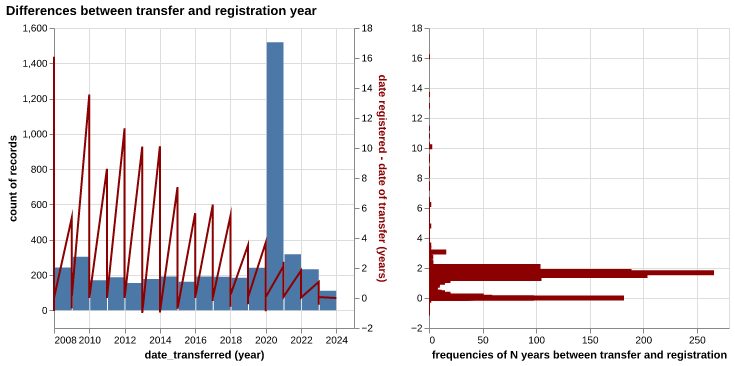
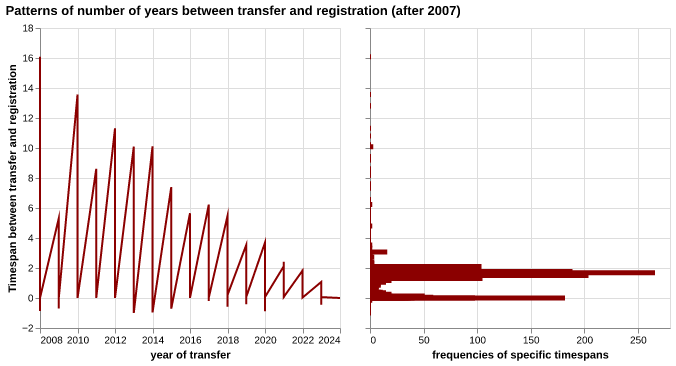
update trimmed date patterns chart

diff --git a/code/charity_commission.py b/code/charity_commission.py
@@ -211,29 +211,12 @@ chart
 
 # %%
 # distribution of timespans between transfer and registration
-chart_transfer_bar = (
-    alt.Chart(df['date_transferred'].to_frame())
-    .mark_bar()
-    .encode(
-        alt.X('year(date_transferred):T'),
-        alt.Y('count():Q').title('count of records').scale(
-            alt.Scale(domain=[-100, 1600])
-        )
-    )
-)
-
 chart_diff_line = (
     alt.Chart(df[['date_transferred', 'registered-transfer']])
     .mark_line(color='darkred')
     .encode(
-        alt.X('year(date_transferred):T'),
-        alt.Y('registered-transfer:Q').axis(
-            alt.Axis(
-                title='date registered - date of transfer (years)',
-                titleColor='darkred'
-            )
-        ),
-        alt.Tooltip('registered-transfer:Q'),
+        alt.X('year(date_transferred):T').title('year of transfer'),
+        alt.Y('registered-transfer:Q').title('Timespan between transfer and registration'),
     )
 )
 
@@ -241,19 +224,14 @@ chart_diff_hist = (
     alt.Chart(df['registered-transfer'].to_frame())
     .mark_bar(color='darkred')
     .encode(
-        alt.X('count():Q').title(
-            'frequencies of N years between transfer and registration'
-        ),
-        alt.Y('registered-transfer:Q').title(''),
+        alt.X('count():Q').title('frequencies of specific timespans'),
+        alt.Y('registered-transfer:Q').title('').axis(labels=False),
     )
 )
 
 chart = (
-    alt.hconcat(
-        (chart_transfer_bar + chart_diff_line).resolve_scale(y='independent'),
-        chart_diff_hist
-    )
-    .properties(title='Differences between transfer and registration year')
+    alt.hconcat(chart_diff_line, chart_diff_hist).resolve_axis(y='shared')
+    .properties(title='Patterns of number of years between transfer and registration (after 2007)')
 )
 
 chart.save('../charts/diff_transfer_registration_year_trimmed.png')
